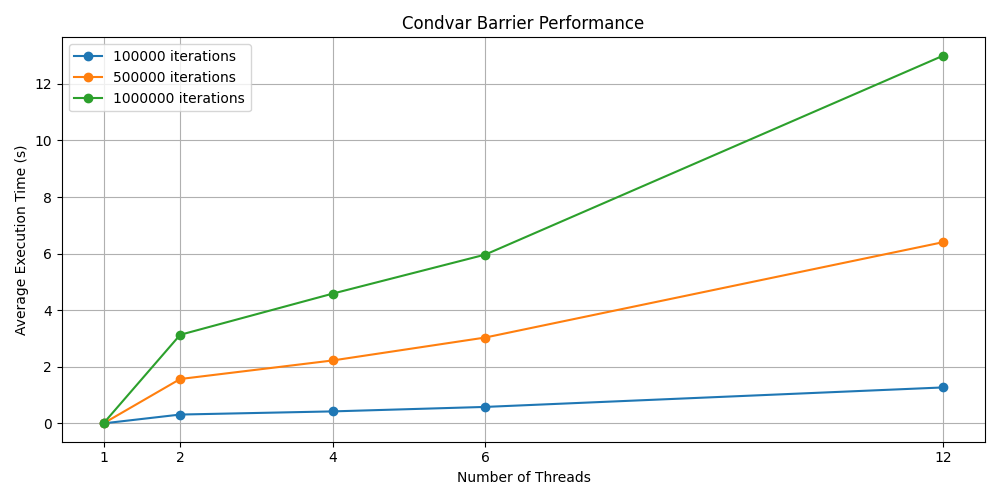
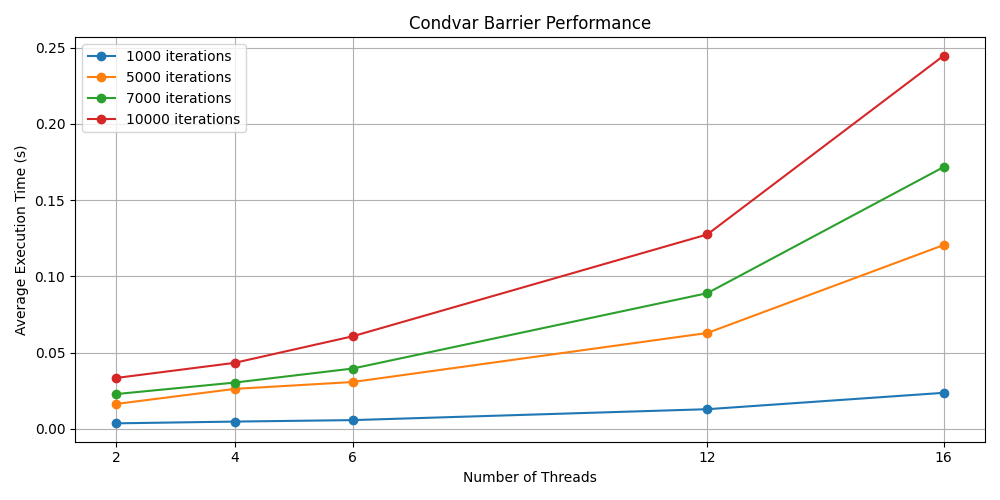
done

diff --git a/pthreads/sense_barrier.c b/pthreads/sense_barrier.c
@@ -20,7 +20,7 @@ void thread_barrier_wait(thread_barrier *barrier){
             pthread_mutex_unlock(&(barrier->lock));
         } else {
             pthread_mutex_unlock(&(barrier->lock));
-            while (barrier->flag != local_sense); // wait for flag
+            while (barrier->flag != local_sense);
         }
     }
 }